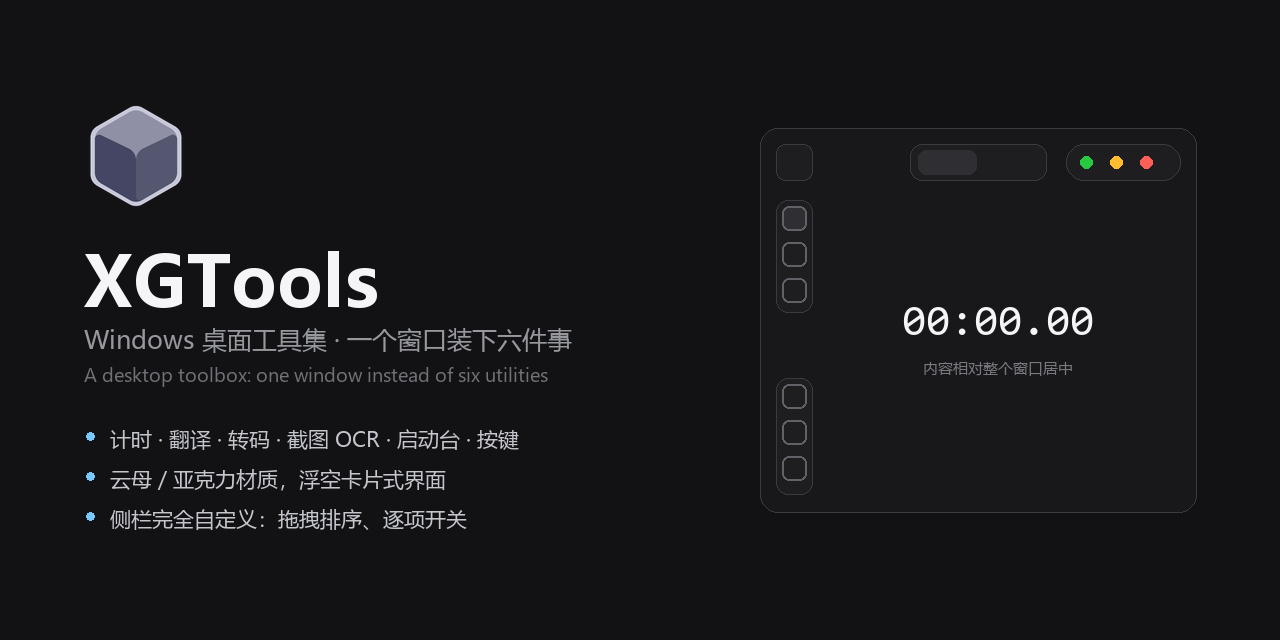
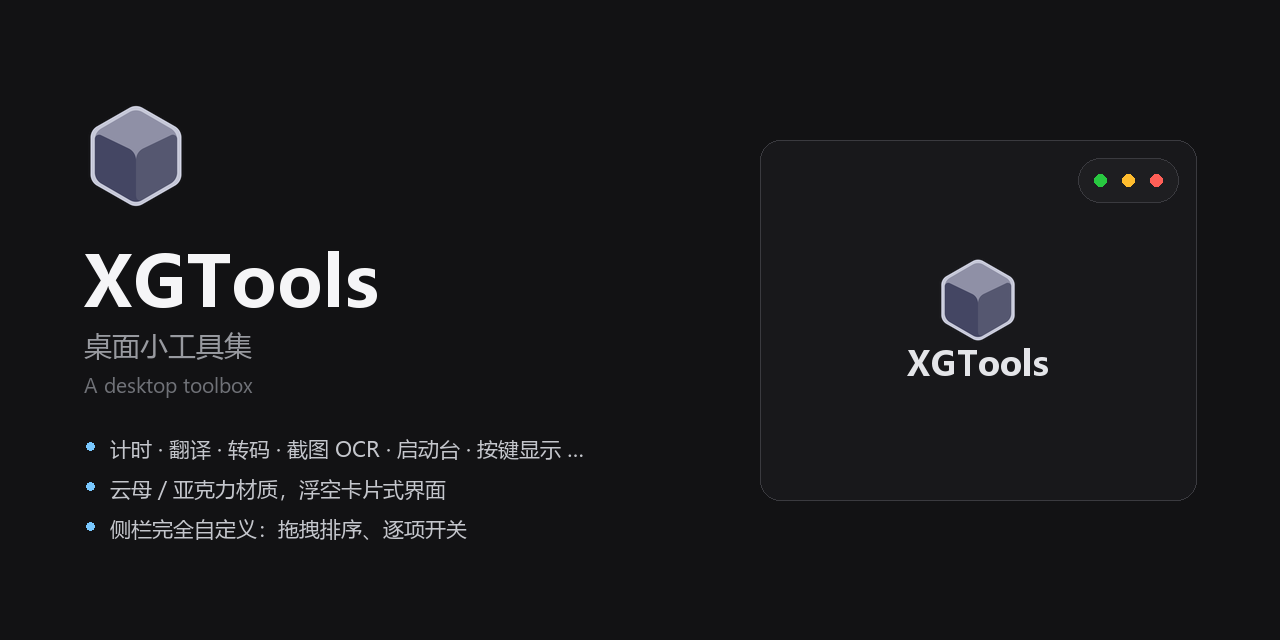
💄 ui: 重做社交预览图，标语不再把产品钉在「Windows」和「六件事」上
原来的标语写死了平台和功能数量。以后要上 Mac,功能也只会越来越多,那种写法
迟早自己打自己脸 —— 改成「桌面小工具集 / A desktop toolbox」,四份 README 的
头部标语和简介段一并改掉,不然文案和图对不上。

右边的窗口示意重画:去掉侧栏和顶栏(在 1280 宽里只会糊成一堆看不清的小方块),
改成最有辨识度的两样 —— 右上角三个圆点 + 居中的 Logo 与字标。
圆点照真实应用那套推导摆:点径 12、格宽 28、内边距 8,满足 P = (W - D)/2,
所以「边到点」和「点到点」精确都是 16px。上一版取 11/28/8 差了半像素。

diff --git a/README.md b/README.md
@@ -9,7 +9,7 @@ English | [官话 - 简体中文](README-cmn_CN.md) | [官話 - 繁體中文](RE
 <h1 align='center'>XGTools</h1>
 
 <p align='center'>
-  <samp>A desktop toolbox for Windows — one window instead of six little utilities</samp>
+  <samp>A desktop toolbox — the small utilities you reach for daily, behind one icon</samp>
 </p>
 
 <p align='center'>
@@ -31,8 +31,8 @@ English | [官话 - 简体中文](README-cmn_CN.md) | [官話 - 繁體中文](RE
 
 XGTools puts the small utilities you reach for every day — a timer, a translator, a file
 converter, a screenshot tool with OCR, an app launcher, a key-press overlay — behind a
-single icon in the tray, instead of six separate programs each with its own updater,
-its own tray icon and its own idea of what a settings window should look like.
+single icon in the tray, instead of a separate program per task — each with its own
+updater, its own tray icon and its own idea of what a settings window should look like.
 
 It is a personal tool, built for one Windows machine and shared as-is.
 

diff --git a/README-cmn_CN.md b/README-cmn_CN.md
@@ -9,7 +9,7 @@
 <h1 align='center'>XGTools</h1>
 
 <p align='center'>
-  <samp>Windows 桌面工具集 —— 用一个窗口代替六个小软件</samp>
+  <samp>桌面小工具集 —— 每天要用一下的那些小工具，收进一个图标</samp>
 </p>
 
 <p align='center'>
@@ -30,8 +30,8 @@
 ## 👋 简介
 
 计时器、翻译、格式转换、带 OCR 的截图、启动台、按键显示 —— 这些每天都要用一下的小工具，
-XGTools 把它们收进托盘里的一个图标，而不是六个各自带更新器、各自占一个托盘位、
-各自对「设置窗口该长什么样」有一套想法的独立程序。
+XGTools 把它们收进托盘里的一个图标，而不是一件事装一个软件 —— 各自带更新器、
+各自占一个托盘位、各自对「设置窗口该长什么样」有一套想法。
 
 自用工具，为一台 Windows 机器写的，原样分享。
 

diff --git a/README-cmn_TW.md b/README-cmn_TW.md
@@ -9,7 +9,7 @@
 <h1 align='center'>XGTools</h1>
 
 <p align='center'>
-  <samp>Windows 桌面工具集 —— 用一個視窗取代六個小軟體</samp>
+  <samp>桌面小工具集 —— 每天要用一下的那些小工具，收進一個圖示</samp>
 </p>
 
 <p align='center'>
@@ -30,8 +30,8 @@
 ## 👋 簡介
 
 計時器、翻譯、格式轉換、附 OCR 的截圖、啟動台、按鍵顯示 —— 這些每天都要用一下的小工具，
-XGTools 把它們收進系統匣裡的一個圖示，而不是六個各自帶更新器、各自佔一個匣位、
-各自對「設定視窗該長什麼樣」有一套想法的獨立程式。
+XGTools 把它們收進系統匣裡的一個圖示，而不是一件事裝一個軟體 —— 各自帶更新器、
+各自佔一個匣位、各自對「設定視窗該長什麼樣」有一套想法。
 
 自用工具，為一台 Windows 機器寫的，原樣分享。
 

diff --git a/README-jyut.md b/README-jyut.md
@@ -9,7 +9,7 @@
 <h1 align='center'>XGTools</h1>
 
 <p align='center'>
-  <samp>Windows 桌面工具箱 —— 一個窗代替六個細軟件</samp>
+  <samp>桌面細工具集 —— 日日要用一用嗰啲細工具，收埋喺一個圖示度</samp>
 </p>
 
 <p align='center'>
@@ -30,8 +30,8 @@
 ## 👋 講咩嚟嘅
 
 計時器、翻譯、轉格式、連 OCR 嘅截圖、啟動台、撳掣顯示 —— 呢啲日日都要用一用嘅細工具，
-XGTools 一次過收晒喺工作列嗰一個圖示入面，唔使裝六個軟件：六個更新器、六個圖示霸位、
-六套各有各諗法嘅設定窗。
+XGTools 一次過收晒喺工作列嗰一個圖示入面，唔使一件事裝一個軟件 —— 每個都自己一個
+更新器、自己霸個圖示位、自己一套諗法嘅設定窗。
 
 自己整嚟自己用嘅嘢，淨係為一部 Windows 機寫，照原樣攞出嚟分享。
 
